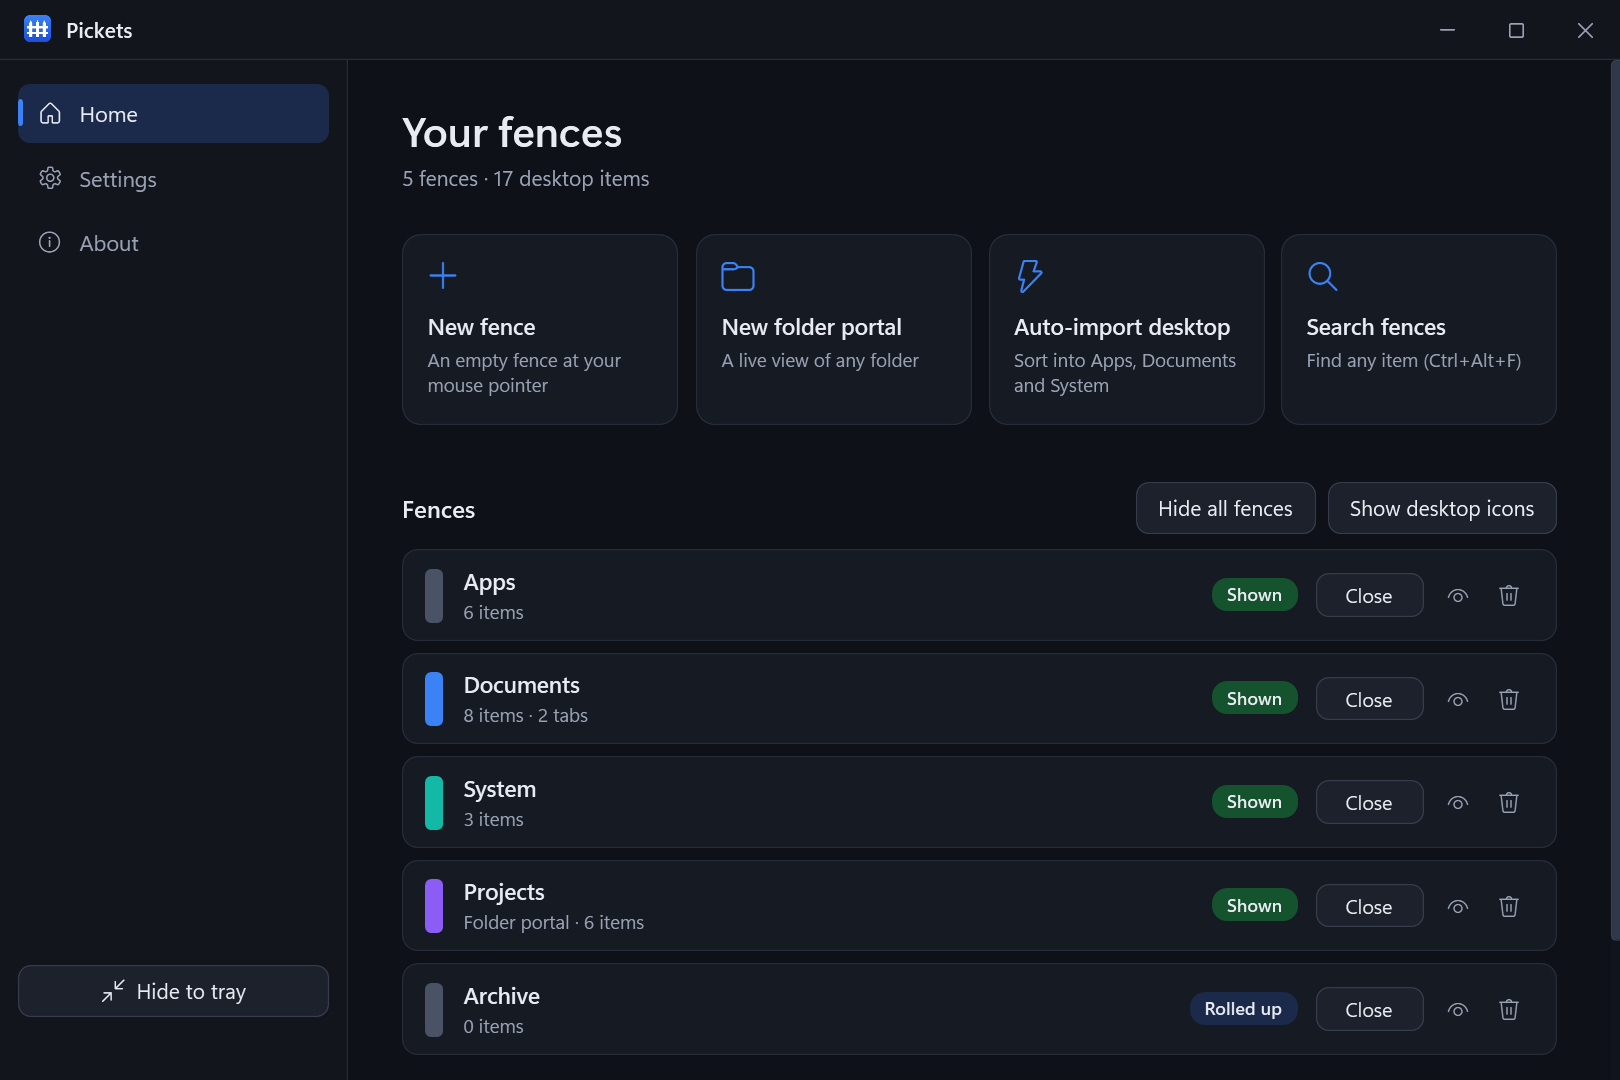
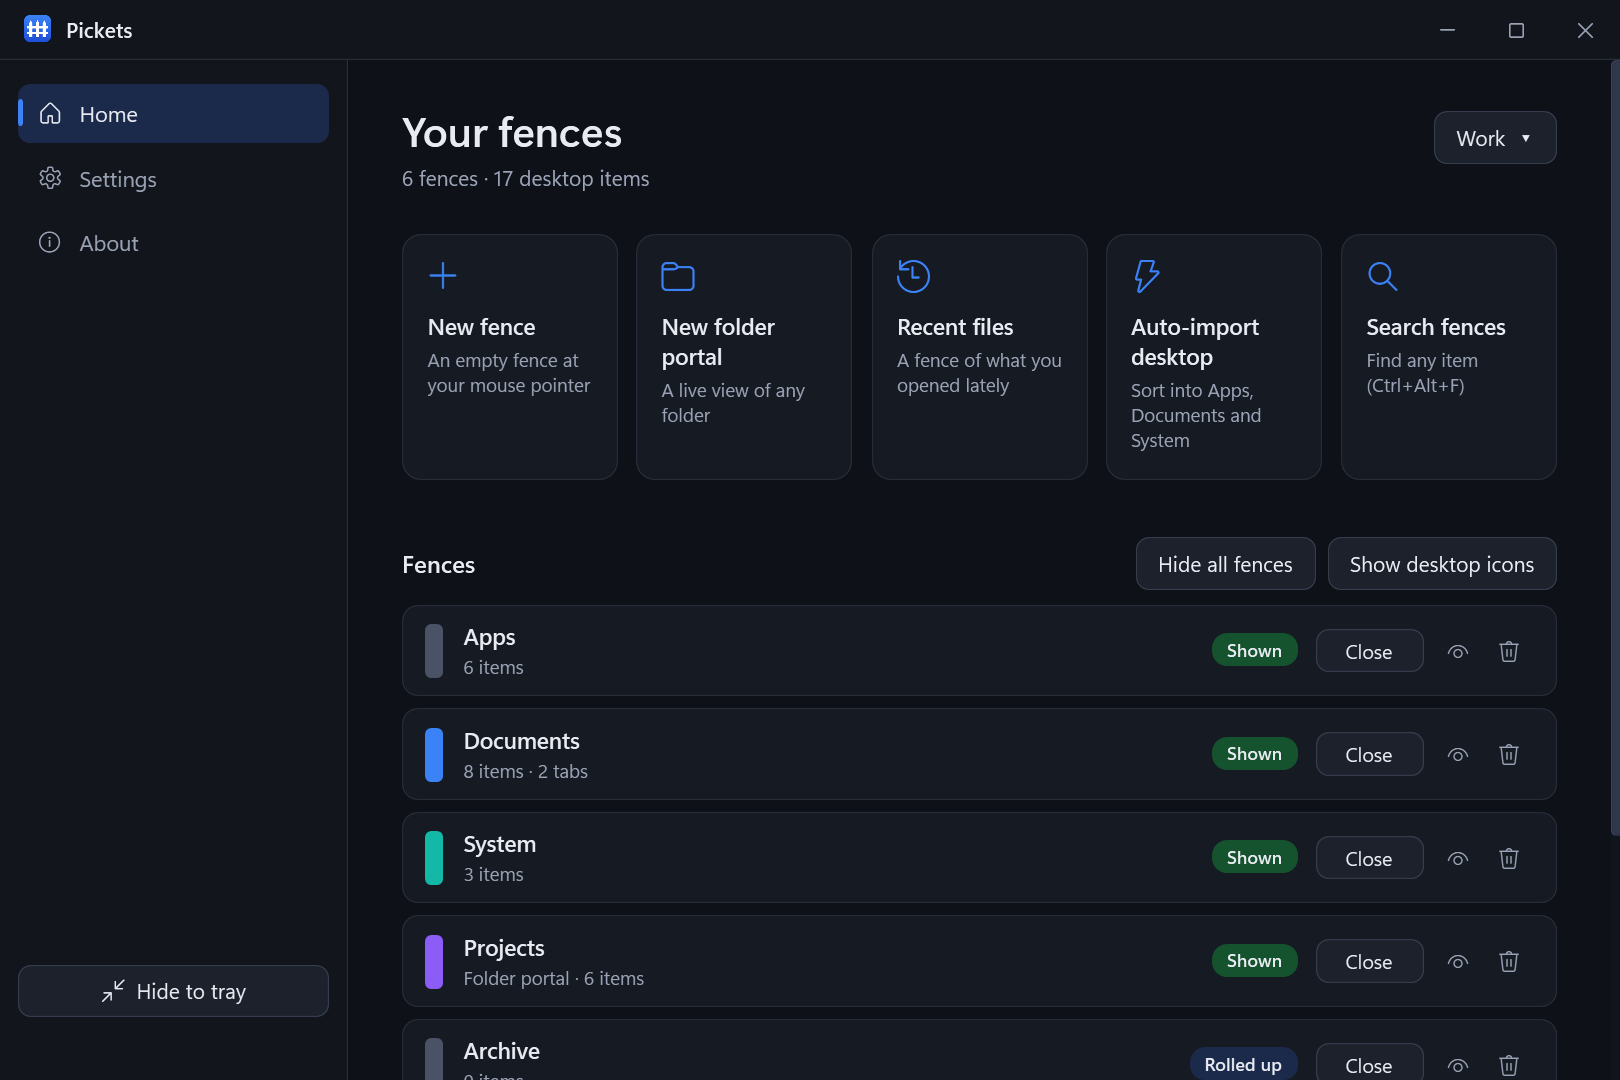
Refresh screenshots; fix a cut-off hint on empty rolled-up fences
Screenshots (tools/Screenshots):
- The Home page shows the profile button and the Recent files tile, in dark and
  now also light (screenshot-app-light.png, added to the README).
- The desktop scene adds a Recent files fence in list view; demo files get real
  sizes and dates. Fences are moved off-screen after Show, since they now place
  themselves once their window exists.

App fixes found while doing it:
- An empty rolled-up fence showed "Drag items here" cut off under its title.
  The hint now follows the body's visibility, and says "Nothing matches the
  filter" for a filtered portal.
- Shortcuts in the Search tile no longer wrap mid-shortcut ("(Ctrl / +Alt+F)").
- List view sizes round like Explorer and Quick Look (98 KB, not 97 KB).
- Silence WFAC010: WPF needs the DPI manifest the WinForms analyzer flags.

diff --git a/tools/Screenshots/Program.cs b/tools/Screenshots/Program.cs
@@ -54,6 +54,9 @@ internal static class Program
                 SaveDesktop(fences, "screenshot-search.png", search: "no");
                 SaveWelcome("screenshot-welcome.png");
                 SaveAppWindow(fences, "screenshot-app.png");
+                UsePalette("Light");
+                SaveAppWindow(fences, "screenshot-app-light.png");
+                UsePalette("Dark");
                 SaveQuickLook(fences, "screenshot-quicklook.png");
                 foreach (var f in fences) f.Close();
                 Console.WriteLine("Saved screenshots to " + _outDir);
@@ -75,14 +78,26 @@ internal static class Program
         if (Directory.Exists(root)) Directory.Delete(root, recursive: true);
         Directory.CreateDirectory(root);
 
-        foreach (var name in new[]
-                 {
-                     "Quarterly Report.docx", "Budget 2026.xlsx", "Roadmap.pptx", "Meeting Notes.txt",
-                     "Invoice-1042.pdf", "Team Photo.jpg", "Design Assets.zip"
-                 })
-            File.WriteAllText(Path.Combine(root, name), "");
-
         DrawLandscape(Path.Combine(root, "Mountains.png"));
+
+        // Believable sizes and "last changed" times, for the list view's size · date column.
+        var now = DateTime.Now;
+        foreach (var (name, kb, ago) in new[]
+                 {
+                     ("Quarterly Report.docx", 48, TimeSpan.FromMinutes(12)),
+                     ("Budget 2026.xlsx", 126, TimeSpan.FromHours(2)),
+                     ("Meeting Notes.txt", 3, TimeSpan.FromHours(5)),
+                     ("Roadmap.pptx", 2310, TimeSpan.FromDays(2)),
+                     ("Invoice-1042.pdf", 214, TimeSpan.FromDays(6)),
+                     ("Team Photo.jpg", 3480, TimeSpan.FromDays(19)),
+                     ("Design Assets.zip", 18200, TimeSpan.FromDays(41)),
+                 })
+        {
+            var path = Path.Combine(root, name);
+            File.WriteAllBytes(path, new byte[kb * 1024]);
+            File.SetLastWriteTime(path, now - ago);
+        }
+        File.SetLastWriteTime(Path.Combine(root, "Mountains.png"), now - TimeSpan.FromDays(3));
 
         var projects = Directory.CreateDirectory(Path.Combine(root, "Projects")).FullName;
         foreach (var dir in new[] { "Website Redesign", "Mobile App", "Annual Review" })
@@ -149,6 +164,13 @@ internal static class Program
                 Left = 530, Top = 390, Width = 520, Height = 260
             },
             new FenceModel { Name = "Archive", Collapsed = true, Left = 1090, Top = 60, Width = 300, Height = 200 },
+            // List view: one row per item with its size and date, like the Recent files fence.
+            new FenceModel
+            {
+                Name = "Recent files", IsPortal = true, FolderPath = _demo, View = FenceView.List,
+                Sort = FenceSort.DateModified, PortalFilter = ".docx .xlsx .pptx .pdf .txt .jpg .png .zip",
+                Left = 1090, Top = 130, Width = 300, Height = 330
+            },
         };
 
         var windows = new List<FenceWindow>();
@@ -157,10 +179,11 @@ internal static class Program
             var w = new FenceWindow(m);
             // Where it goes in the picture. Read before moving off-screen, which updates the model.
             w.Tag = new Point(m.Left, m.Top);
-            // Off-screen: rendered to bitmaps, never seen on the real desktop.
+            // Off-screen: rendered to bitmaps, never seen on the real desktop. Moved after Show,
+            // since a fence places itself where its model says once its window exists.
+            w.Show();
             w.Left = -30000 + windows.Count * 2000;
             w.Top = -30000;
-            w.Show();
             windows.Add(w);
         }
         return windows;
@@ -234,18 +257,20 @@ internal static class Program
 
         T Find<T>(string name) where T : class => (w.FindName(name) as T)!;
         Brush B(string c) => (Brush)new BrushConverter().ConvertFromString(c)!;
+        Brush R(string key) => (Brush)System.Windows.Application.Current.FindResource(key); // current palette
         Find<TextBlock>("SidebarVersion").Text = ""; // would go stale with every release
         Find<Button>("ToggleAllButton").Content = "Hide all fences";
-        Find<TextBlock>("SearchTileHint").Text = "Find any item (Ctrl+Alt+F)";
+        Find<TextBlock>("SearchTileHint").Text = "Find any item (Ctrl+Alt+F)"; // as the app shows it: never split
+        Find<Button>("ProfileButton").Content = "Work  ▾"; // a desktop profile in use
 
         var rows = fences.Select(f => new MainWindow.FenceRow(f)
         {
             Name = f.FenceName,
             Details = f.IsPortal ? $"Folder portal · {f.ItemCount} items"
                                  : f.TabCount > 0 ? $"{f.ItemCount} items · {f.TabCount} tabs" : $"{f.ItemCount} items",
-            Swatch = string.IsNullOrEmpty(f.AccentColor) ? B("#4A5366") : B(f.AccentColor!),
+            Swatch = string.IsNullOrEmpty(f.AccentColor) ? R("Hub.Swatch") : B(f.AccentColor!),
             State = f.IsCollapsed ? "Rolled up" : "Shown",
-            StateBrush = f.IsCollapsed ? B("#1B2A4A") : B("#14532D"),
+            StateBrush = f.IsCollapsed ? R("Hub.StateRolled") : R("Hub.StateShown"),
             ShowLabel = "Close"
         }).ToList();
         Find<ItemsControl>("FenceList").ItemsSource = rows;
@@ -284,6 +309,17 @@ internal static class Program
         Place(scene, card, new Point((SceneW - 860) / 2, (SceneH - 560) / 2 + 10), 860, 560);
         Save(scene, file);
         ql.Close();
+    }
+
+    // Swap the app's color palette (first merged dictionary, as in App.xaml).
+    private static void UsePalette(string name)
+    {
+        var dicts = System.Windows.Application.Current.Resources.MergedDictionaries;
+        dicts[0] = new ResourceDictionary
+        {
+            Source = new Uri($"pack://application:,,,/Pickets;component/Themes/Palette.{name}.xaml")
+        };
+        Flush();
     }
 
     private static string FindRepoFile(string relative)

diff --git a/Pickets/FenceWindow.xaml.cs b/Pickets/FenceWindow.xaml.cs
@@ -139,7 +139,7 @@ namespace Pickets
             // window is shown, e.g. for a fence that starts rolled up).
             System.ComponentModel.DependencyPropertyDescriptor
                 .FromProperty(VisibilityProperty, typeof(ScrollViewer))
-                .AddValueChanged(Scroller, (_, __) => UpdateTabStripVisibility());
+                .AddValueChanged(Scroller, (_, __) => { UpdateTabStripVisibility(); UpdateEmptyHint(); });
 
             if (_model.Collapsed) SetCollapsed(true, animate: false);
 
@@ -1678,8 +1678,12 @@ namespace Pickets
         // An empty fence says what to do instead of being a blank box.
         private void UpdateEmptyHint()
         {
-            EmptyHint.Text = IsPortal ? "This folder is empty" : "Drag items here";
-            EmptyHint.Visibility = ItemsSource.Count == 0 && !TitleText.Text.EndsWith("(unavailable)", StringComparison.Ordinal)
+            EmptyHint.Text = !IsPortal ? "Drag items here"
+                : Pickets.Services.PortalFilter.IsActive(_model.PortalFilter, _model.PortalMaxAgeDays) ? "Nothing matches the filter"
+                : "This folder is empty";
+            // Only with the body showing: a rolled-up fence would show it cut off under the title.
+            EmptyHint.Visibility = ItemsSource.Count == 0 && Scroller.Visibility == Visibility.Visible &&
+                                   !TitleText.Text.EndsWith("(unavailable)", StringComparison.Ordinal)
                 ? Visibility.Visible : Visibility.Collapsed;
         }
 

diff --git a/Pickets/Services/HotkeyText.cs b/Pickets/Services/HotkeyText.cs
@@ -60,6 +60,9 @@ namespace Pickets.Services
             return virtualKey != 0 && (modifiers & (MOD_CONTROL | MOD_ALT | MOD_WIN)) != 0;
         }
 
+        /// <summary>"Ctrl+Alt+F" that never wraps onto two lines (word joiners around each +).</summary>
+        public static string NoBreak(string shortcut) => shortcut.Replace("+", "+");
+
         private static string KeyName(Key key) => key switch
         {
             >= Key.D0 and <= Key.D9 => ((int)(key - Key.D0)).ToString(),

diff --git a/Pickets/Services/ItemDetails.cs b/Pickets/Services/ItemDetails.cs
@@ -21,7 +21,7 @@ namespace Pickets.Services
         public static string Size(long bytes) => bytes switch
         {
             < 1024 => $"{bytes} B",
-            < 1024 * 1024 => $"{Math.Max(1, bytes / 1024)} KB",
+            < 1024 * 1024 => $"{Math.Max(1, (long)Math.Round(bytes / 1024.0))} KB", // as Explorer and Quick Look
             < 1024L * 1024 * 1024 => $"{bytes / (1024.0 * 1024):0.#} MB",
             _ => $"{bytes / (1024.0 * 1024 * 1024):0.#} GB",
         };

diff --git a/Pickets/MainWindow.Hub.cs b/Pickets/MainWindow.Hub.cs
@@ -194,7 +194,7 @@ namespace Pickets
             ToggleAllButton.Content = _peeked ? "Show all fences" : "Hide all fences";
             RefreshProfileButton();
             SearchTileHint.Text = _config.Options.GlobalHotkeys
-                ? $"Find any item ({_config.Options.SearchHotkey})"
+                ? $"Find any item ({HotkeyText.NoBreak(_config.Options.SearchHotkey)})"
                 : "Find any item in any fence";
         }
 

diff --git a/README.md b/README.md
@@ -84,9 +84,11 @@ After that, Pickets checks GitHub for new versions and installs them when you sa
 
 ## 📷 Screenshots
 
-![Fences on the desktop: Apps, a Documents fence with Work and Personal tabs, System, a Projects folder portal and a rolled-up Archive fence](Pickets/Docs/screenshot-desktop.png "Fences on the desktop")
+![Fences on the desktop: Apps, a Documents fence with Work and Personal tabs, System, a Projects folder portal, a rolled-up Archive fence and a Recent files fence in list view](Pickets/Docs/screenshot-desktop.png "Fences on the desktop")
 
-![The Pickets window: quick actions and every fence with its state](Pickets/Docs/screenshot-app.png "The Pickets window")
+![The Pickets window: quick actions, desktop profiles and every fence with its state](Pickets/Docs/screenshot-app.png "The Pickets window")
+
+![The Pickets window in the light theme](Pickets/Docs/screenshot-app-light.png "Light theme")
 
 ![Quick Look previewing a picture from a fence](Pickets/Docs/screenshot-quicklook.png "Quick Look")
 
